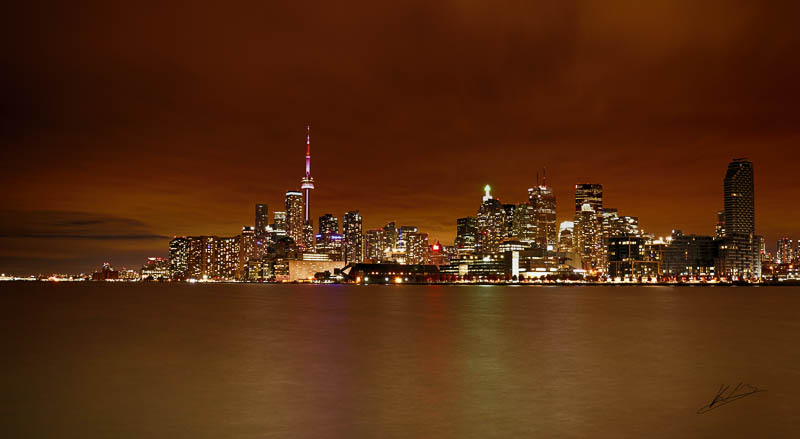
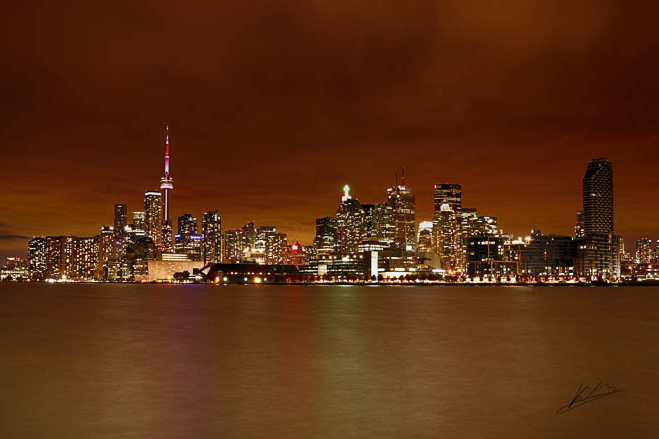
Style Changes

Changed region(s): [[0.0, 0.0, 1.0, 1.0], [0.8498, 0.8884, 0.9105, 0.9476], [0.2731, 0.7107, 0.3035, 0.7403]]

diff --git a/scramble-demo.html b/scramble-demo.html
@@ -1,0 +1,60 @@
+<!DOCTYPE html>
+<html lang="en">
+
+<head>
+    <meta charset="UTF-8">
+    <meta name="viewport" content="width=device-width, initial-scale=1.0">
+    <link rel="stylesheet" href="css/styles.css">
+    <link rel="icon" href="img/icons/LOGO.svg">
+    <title>Bootstrap Demo</title>
+</head>
+
+<body>
+    <header class="header-pages">
+        <div class="nav">
+            <nav class="drop">
+                <div class="header-img" id="header-img">
+                    <a href="index.html"><img src="img/icons/LOGO.svg" alt="sailboat logo" class="logo"></a>
+                </div>
+                <button class="dropbtn" id="btn"><img src="img/icons/burgmenu.png" alt="menu button"
+                        style="width: 20px; height: auto;"></button>
+                <ul class="menu-items" id="menu-items">
+                    <li><a href="about.html"><img src="img/icons/Person.svg" alt="person icon">About</a></li>
+                    <li><a href="web-projects.html"><img src="img/icons/Computer.svg" alt="computer icon">Projects</a>
+                    </li>
+                    <li><a href="photography.html"><img src="img/icons/Camera.svg" alt="camera icon">Photos</a></li>
+                </ul>
+            </nav>
+        </div>
+    </header>
+    <main>
+        <div class="wrapper">
+            <div class="back-link">
+                <a href="web-projects.html"><img src="img/icons/Arrow.svg" alt="arrow" style="width: 70px;"> Back to
+                    Projects</a>
+            </div>
+            <br>
+            <h3>Bootstrap This!</h3>
+            <br>
+
+            <div class="demo-page-single">
+
+                <img src="img/Scramble-1.PNG" alt="Scrabble demo image">
+            </div>
+            <p>This is a small single page web app game built using the Vue 3 JavaScript framework. The objective of the
+                game is to guess all 10 scrambled words without getting 3 strikes.</p>
+            <div class="see-site-link">
+                <a href="https://gabo0015.github.io/bootstrap-assignment/index.html" target="_blank">See the Site<img
+                        src="img/icons/Arrow.svg" alt="arrow" style="transform: rotate(180deg); width: 70px;"></a>
+            </div>
+        </div>
+        <div class="space2">
+
+        </div>
+    </main>
+    <footer>
+        <p>K Gab 2021</p>
+    </footer>
+</body>
+
+</html>

diff --git a/css/styles.css b/css/styles.css
@@ -26,7 +26,7 @@ body h3 {
 }
 
 header nav ul li a:hover, nav button:hover, main .wrapper .back-link a:hover, main .wrapper .see-site-link a:hover {
-  background-color: #707078;
+  background-color: #1a5871;
   -webkit-transition-duration: .3s;
           transition-duration: .3s;
   cursor: pointer;
@@ -38,12 +38,12 @@ main .about-image, main .wrapper img, main .wrapper .recent-work div img, .site-
 }
 
 header {
-  background-color: #34435E;
-  padding-top: 1em;
+  background-color: #153c66;
 }
 
 header .header-img {
   padding-bottom: 1em;
+  padding-top: 1em;
 }
 
 header .header-img a {
@@ -70,7 +70,7 @@ header nav ul li img {
 header nav ul li a {
   display: block;
   text-decoration: none;
-  background-color: #34435E;
+  background-color: #153c66;
   -webkit-transition: .5s ease-in-out;
   transition: .5s ease-in-out;
   color: white;
@@ -98,7 +98,7 @@ header nav ul li a {
   padding-top: 2.5em;
   padding-bottom: 2.5em;
   border: none;
-  background-color: #34435E;
+  background-color: #153c66;
 }
 
 .header-pages #header-img a img {
@@ -127,7 +127,7 @@ nav button {
   width: 100%;
   text-decoration: none;
   color: white;
-  background-color: #2f3d55;
+  background-color: #153c66;
   border: none;
   border-bottom: 1px solid white;
 }
@@ -154,7 +154,7 @@ main .wrapper .back-link a, main .wrapper .see-site-link a {
           align-items: center;
   text-decoration: none;
   color: white;
-  background-color: #34435E;
+  background-color: #153c66;
   padding: 0.3em;
   border-radius: 0.4em;
 }
@@ -200,6 +200,10 @@ main .wrapper .recent-work div img {
 }
 
 .demo-page-img img {
+  padding-bottom: 2em;
+}
+
+.demo-page-single img {
   padding-bottom: 2em;
 }
 
@@ -363,11 +367,11 @@ footer {
         -ms-flex-pack: space-evenly;
             justify-content: space-evenly;
     list-style-type: none;
-    background-color: #2f3d55;
+    background-color: #153c66;
   }
   .home-header #menu-items li a {
     width: 100%;
-    background-color: #2f3d55;
+    background-color: #153c66;
   }
   main .wrapper {
     margin: 4em;

diff --git a/photography.html b/photography.html
@@ -37,7 +37,7 @@
       <br>
 
       <div class="image-grid">
-        <!--img src="img/IMG_1.jpg" class="md-item" id="md-img" alt="Toronto Skyline"-->
+        <img src="img/IMG_1.jpg" class="md-item" id="md-img" alt="Toronto Skyline">
         <img src="img/IMG_2.jpg" class="md-item" alt="ocean in bc">
         <img src="img/IMG_0746_edit.jpg" class="md-item" alt="mine">
         <img src="img/IMG_1857-copy.jpg" class="md-item" alt="Sunset over lake">
@@ -87,7 +87,7 @@
     </div>
   </main>
   <footer>
-    <p>K Gab 2020</p>
+    <p>K Gab 2021</p>
   </footer>
 </body>
 

diff --git a/index.html b/index.html
@@ -11,8 +11,10 @@
 
 <body>
   <header class="home-header">
-    <div class="header-img">
-      <a href="index.html"><img src="img/icons/LOGO.svg" alt="sailboat logo" class="logo"></a>
+    <div style="background-image: url('/img/Background.png');">
+      <div class="header-img">
+        <a href="index.html"><img src="img/icons/LOGO.svg" alt="sailboat logo" class="logo"></a>
+      </div>
     </div>
     <div class="nav">
       <nav class="drop">
@@ -60,7 +62,7 @@
 
   </main>
   <footer>
-    <p>K Gab 2020</p>
+    <p>K Gab 2021</p>
   </footer>
 </body>
 

diff --git a/web-projects.html b/web-projects.html
@@ -37,6 +37,10 @@
       <br>
       <div class="project-grid">
         <div class="site-demo">
+          <h2>Scrabble</h2>
+          <a href="scramble-demo.html"><img class="demo-img" src="img/Scramble-1.PNG" alt="Scramble webapp demo"></a>
+        </div>
+        <div class="site-demo">
           <h2>ACR</h2>
           <a href="arc-demo.html"><img class="demo-img" src="img/ACR.PNG" alt="acr site demo"></a>
         </div>
@@ -58,7 +62,7 @@
     </div>
   </main>
   <footer>
-    <p>K Gab 2020</p>
+    <p>K Gab 2021</p>
   </footer>
 </body>
 

diff --git a/css/styles.scss b/css/styles.scss
@@ -29,7 +29,7 @@ body {
 }
 
 %hover {
-  background-color: #707078;
+  background-color: #1a5871;
   transition-duration: .3s;
   cursor: pointer;
 }
@@ -41,10 +41,11 @@ body {
 
 header {
   background-color: $headercolor;
-  padding-top: 1em;
+  // margin-top: 1em;
 
   .header-img {
     padding-bottom: 1em;
+    padding-top: 1em;
 
     a {
       margin: auto;
@@ -222,6 +223,10 @@ main {
 }
 
 .demo-page-img img {
+  padding-bottom: 2em;
+}
+
+.demo-page-single img {
   padding-bottom: 2em;
 }
 

diff --git a/css/_var.scss b/css/_var.scss
@@ -2,7 +2,7 @@
 // colors
 
 $maincolor: #F1F1F1;
-$headercolor: #34435E;
-$buttoncolor: rgb(47, 61, 85);
+$headercolor: #153c66;
+$buttoncolor: #153c66;
 $footercolor: #2B303A;
 $mainfontcolor: #444444;
